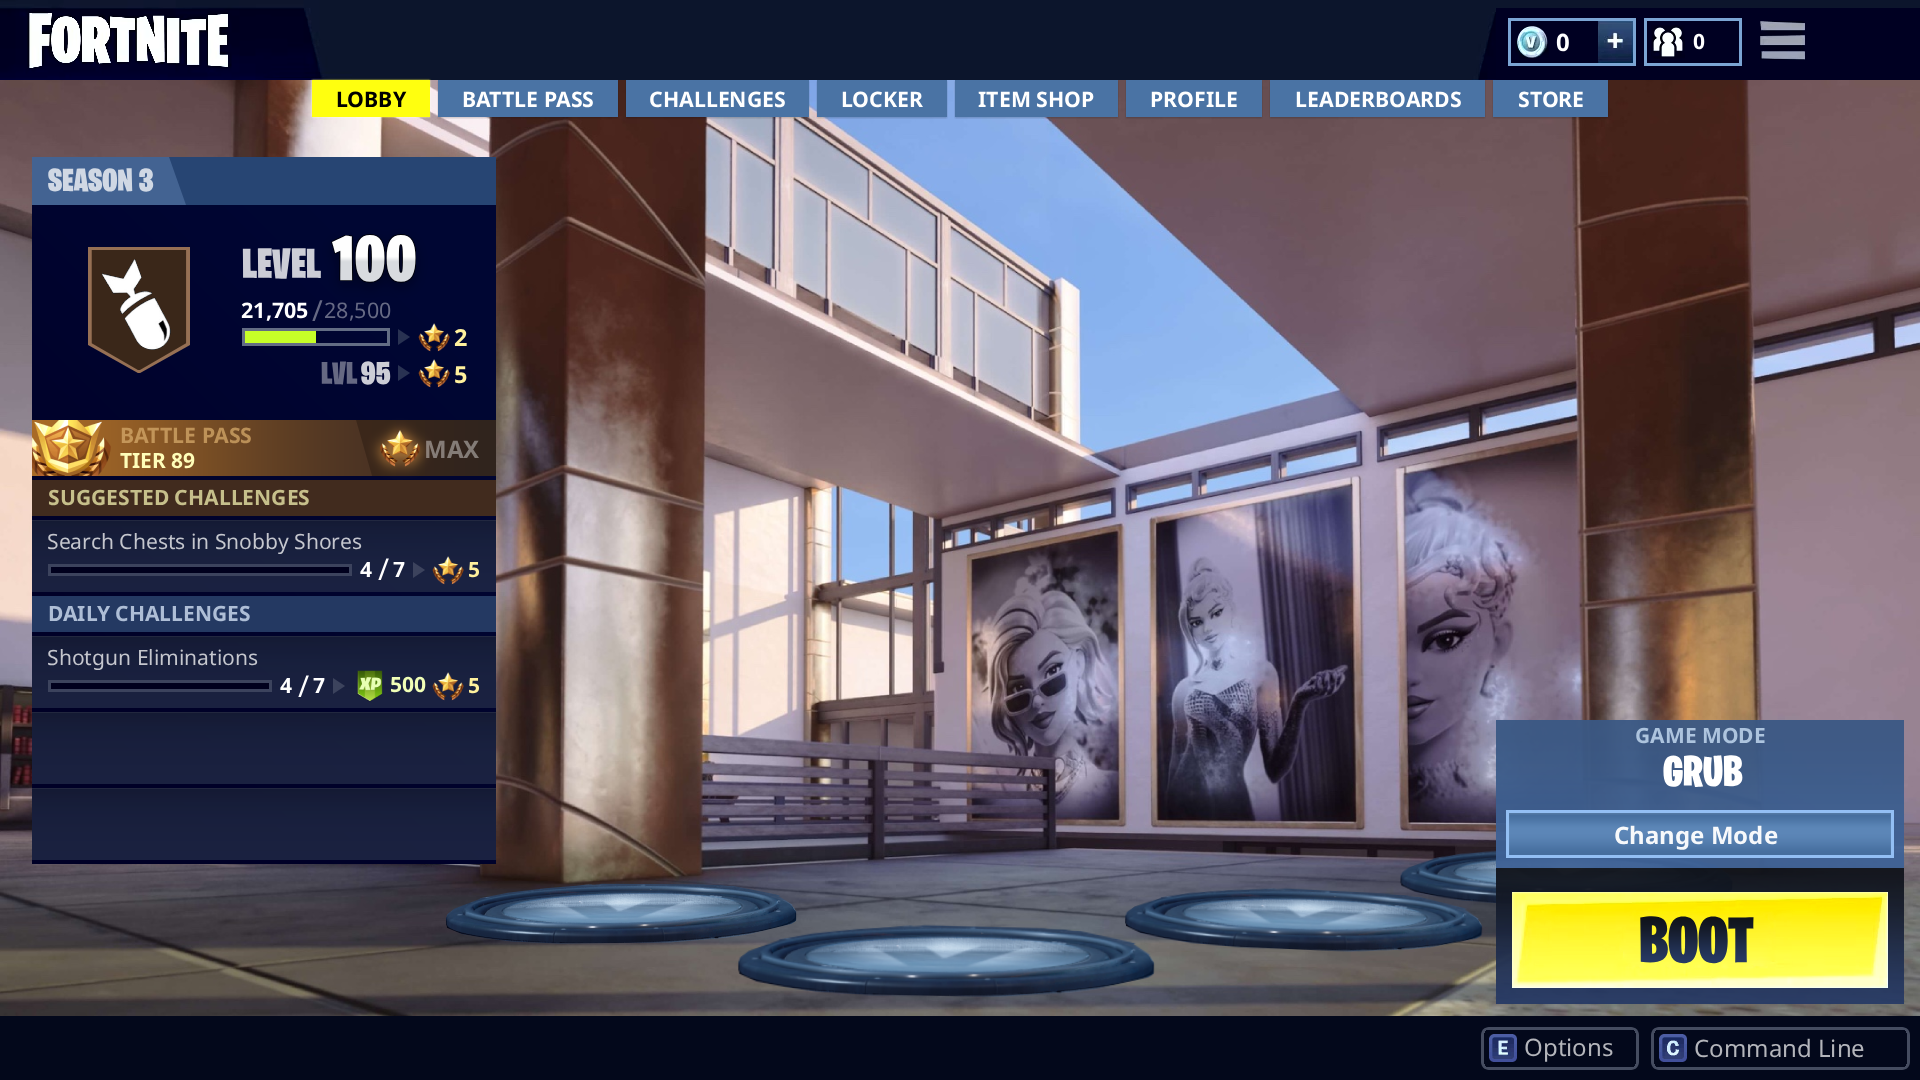
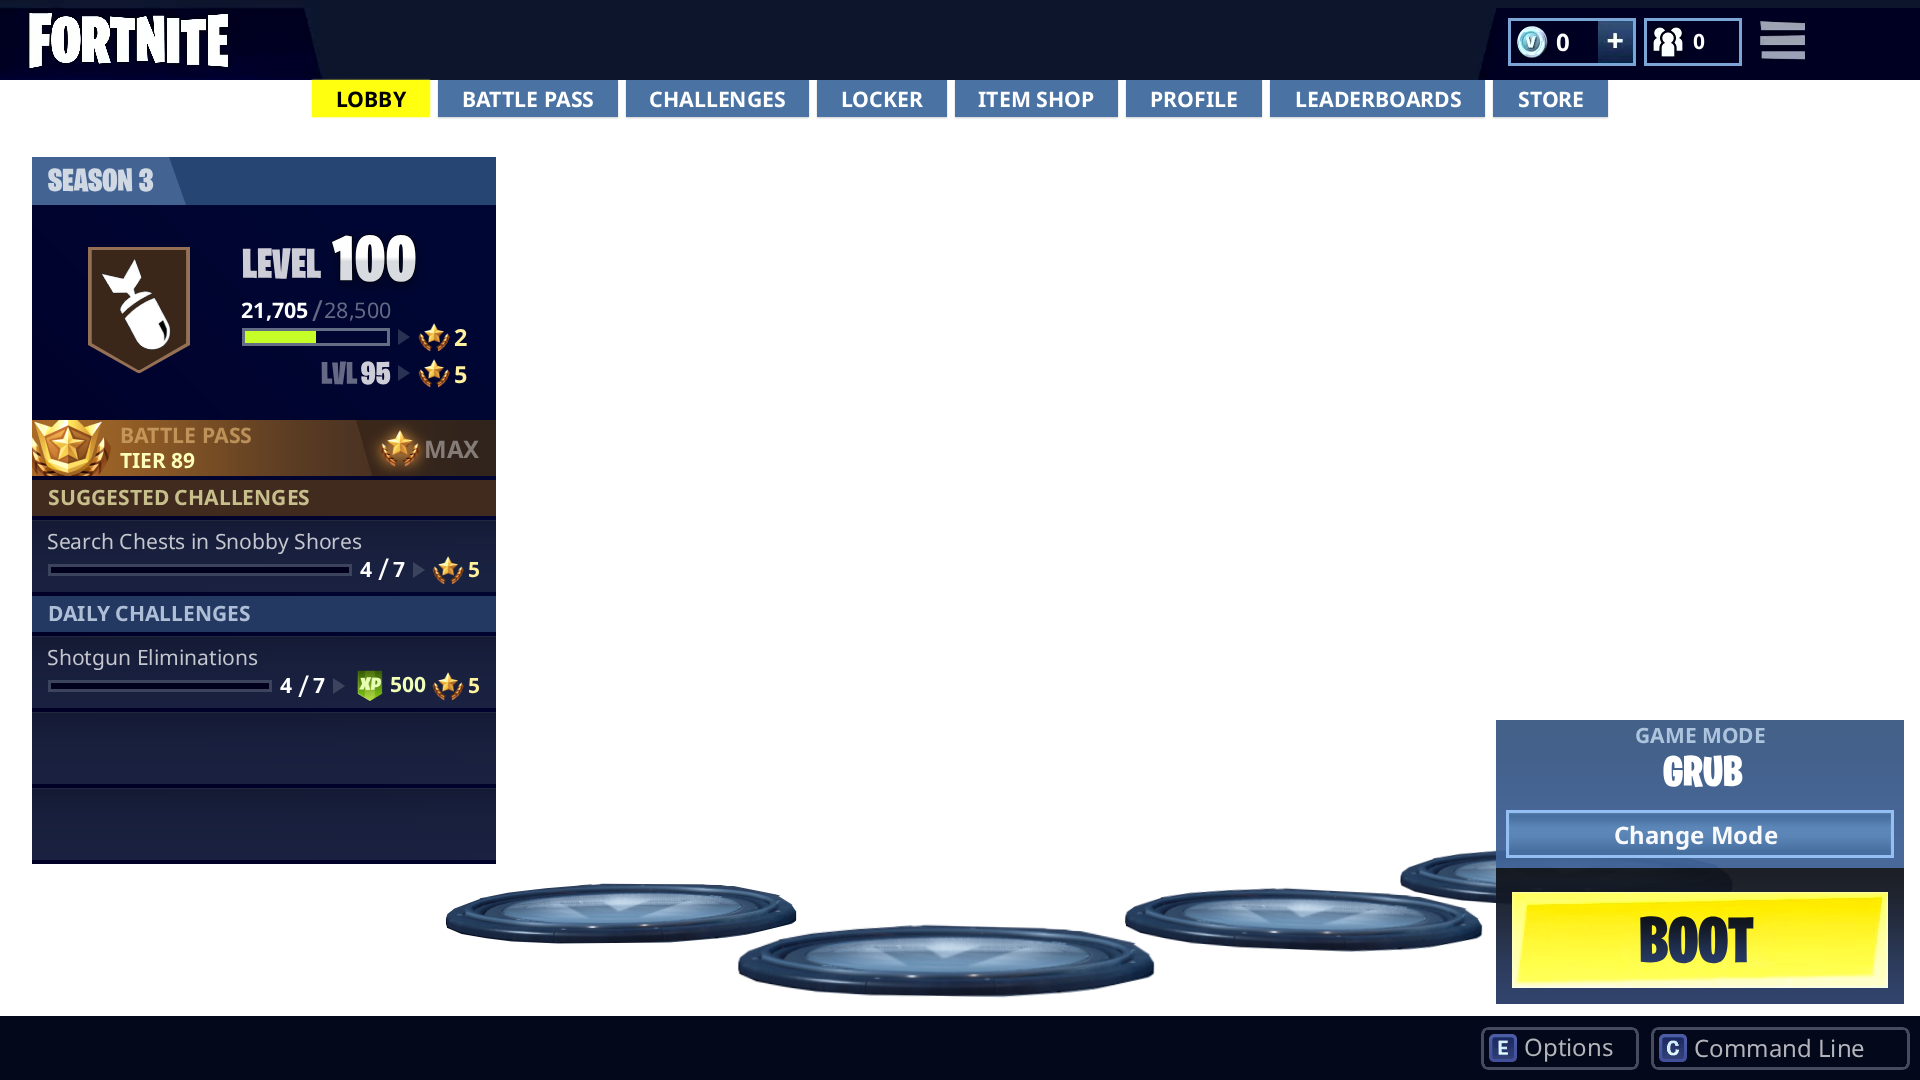
Added background insertion to base png

diff --git a/scripts/helpers/grub_parser.py b/scripts/helpers/grub_parser.py
@@ -1,12 +1,13 @@
 import re
 import os
+import json
+from helpers.utils import THEME_CONFIG_PATH
+import shlex
 
 GRUB_CFG_PATH = '/boot/grub/grub.cfg'
 
-def parse_grub_cfg(cfg_path=GRUB_CFG_PATH):
-    """
-    Parses a grub.cfg file and returns a structured list of entries.
-    """
+
+def parse_grub_cfg(config, save_to_config = True, cfg_path=GRUB_CFG_PATH):
     if not os.path.exists(cfg_path):
         print(f"❌ Error: grub.cfg not found at {cfg_path}")
         return []
@@ -15,38 +16,56 @@ def parse_grub_cfg(cfg_path=GRUB_CFG_PATH):
         lines = f.readlines()
 
     entries = []
-    
     stack = [entries]
 
-    pattern = re.compile(r"^\s*(menuentry|submenu)\s+['\"]([^'\"]+)['\"](.*)\{")
-    
-    class_pattern = re.compile(r"--class\s+([\w-]+)")
-
     for line in lines:
-        line = line.strip()
+        clean_line = line.strip()
+        if not clean_line:
+            continue
+            
+        try:
+            tokens = shlex.split(clean_line, comments=True)
+        except ValueError:
+            continue
+            
+        if not tokens:
+            continue
 
-        match = pattern.search(line)
-        if match:
-            entry_type = match.group(1)  
-            entry_name = match.group(2)  
-            rest_of_line = match.group(3)
+        if tokens[0] == '}':
+            if len(stack) > 1:
+                stack.pop()
+            continue
 
-            classes = class_pattern.findall(rest_of_line)
+        if tokens[0] in ['menuentry', 'submenu']:
+            current_name = tokens[1]
+            entry_type = tokens[0]
+            
+            classes = []
+            for i, token in enumerate(tokens):
+                if token == '--class' and i + 1 < len(tokens):
+                    classes.append(tokens[i+1])
             
             new_entry = {
-                "name": entry_name,
+                "name": current_name,
                 "type": entry_type,
                 "class": classes,
-                "children": [] 
+                "children": []
             }
+            
+            if isinstance(stack[-1], list):
+                stack[-1].append(new_entry)
 
-            current_context = stack[-1]
-            current_context.append(new_entry)
-
-            if entry_type == 'submenu':
-                stack.append(new_entry['children'])
-        
-        elif line.startswith("}") and len(stack) > 1:
-            stack.pop()
+            if tokens[-1] == '{':
+                if entry_type == 'submenu':
+                    stack.append(new_entry['children'])
+                else:
+                    stack.append("IGNORE")
+    if save_to_config:
+        config['menu-entries'] = entries
+        with open(THEME_CONFIG_PATH, 'w') as f:
+            json.dump(config, f, indent=4)
 
     return entries
+
+
+    

diff --git a/scripts/helpers/utils.py b/scripts/helpers/utils.py
@@ -1,14 +1,20 @@
 # scripts/helpers/utils.py
 import os
 import json
+import PIL.Image as Image
 
 PROJECT_ROOT = os.path.dirname(os.path.dirname(os.path.dirname(os.path.abspath(__file__))))
-SCRIPTS_DIR = os.path.dirname(os.path.dirname(os.path.abspath(__file__)))
 
+# Directories
+SCRIPTS_DIR = os.path.dirname(os.path.dirname(os.path.abspath(__file__)))
 ASSETS_DIR = os.path.join(PROJECT_ROOT, "assets")
 ICONS_DIR = os.path.join(ASSETS_DIR, "icons")
+BACKGROUNDS_DIR = os.path.join(ASSETS_DIR, "backgrounds")
+
+# Files
 THEME_CONFIG_PATH = os.path.join(SCRIPTS_DIR, "config.json")
 BASE_IMAGE = os.path.join(ASSETS_DIR, "base.png")
+
 
 def load_config(path=THEME_CONFIG_PATH):
     if not os.path.exists(path):
@@ -21,3 +27,18 @@ def load_config(path=THEME_CONFIG_PATH):
     except json.JSONDecodeError as e:
         print(f"❌ Error: Failed to parse JSON. {e}")
         return None
+
+def load_image(path):
+    if not os.path.exists(path):
+        print(f"❌ Error: Image not found at {path}")
+        return None
+
+    return Image.open(path).convert("RGBA")
+
+def save_image(image, name ,output_path=SCRIPTS_DIR):
+    image_path = os.path.join(output_path, name)
+    try:
+        image.save(image_path)
+        print(f"✅ Saved image to {image_path}")
+    except Exception as e:
+        print(f"❌ Error: Failed to save image. {e}")

diff --git a/scripts/helpers/background.py b/scripts/helpers/background.py
@@ -1,0 +1,40 @@
+import os
+from PIL import Image
+from helpers.utils import BACKGROUNDS_DIR
+
+def add_background(base_image, config):
+
+    background_name = config.get("background", "default.png")
+    background_path = os.path.join(BACKGROUNDS_DIR, background_name)
+    
+    if not os.path.exists(background_path):
+        print(f"⚠ Warning: Background {background_name} not found. Returning base only.")
+        return base_image
+
+    background_image = Image.open(background_path).convert("RGBA")
+    
+    bg_w, bg_h = background_image.size
+    base_w, base_h = base_image.size
+    
+    scale_factor = base_w / bg_w
+    
+    new_w = base_w
+    new_h = int(bg_h * scale_factor)
+    
+    print(f"📏 Resizing background from {bg_w}x{bg_h} to {new_w}x{new_h}")
+
+    resized_bg = background_image.resize((new_w, new_h), Image.Resampling.LANCZOS)
+
+    canvas = Image.new("RGBA", base_image.size, (0, 0, 0, 255)) 
+
+    # Slight offset to align with GRUB's background positioning (56px from top) 
+    x_pos = 0
+    y_pos = 56
+    
+    canvas.paste(resized_bg, (x_pos, y_pos), resized_bg)
+    
+    final_image = Image.alpha_composite(canvas, base_image)
+    
+    print("✅ Composited background and base image.")
+    
+    return final_image

diff --git a/scripts/core/update_theme.py b/scripts/core/update_theme.py
@@ -1,6 +1,7 @@
 import os
-from helpers.utils import load_config
+from helpers.utils import load_config, load_image, save_image, BASE_IMAGE
 from helpers.grub_parser import parse_grub_cfg
+from helpers.background import add_background
 
 def run():
     print("Starting Theme Update ...")
@@ -8,7 +9,13 @@ def run():
     config = load_config()
     print(config)
     
-    entries = parse_grub_cfg()
+    entries = parse_grub_cfg(config, True)
     print(entries)
 
-    
+    # LOAD BASE IMAGE
+    base_image = load_image(BASE_IMAGE)
+
+    # Add background to base image
+    current_image = add_background(base_image, config)
+
+    save_image(current_image, "test.png")
